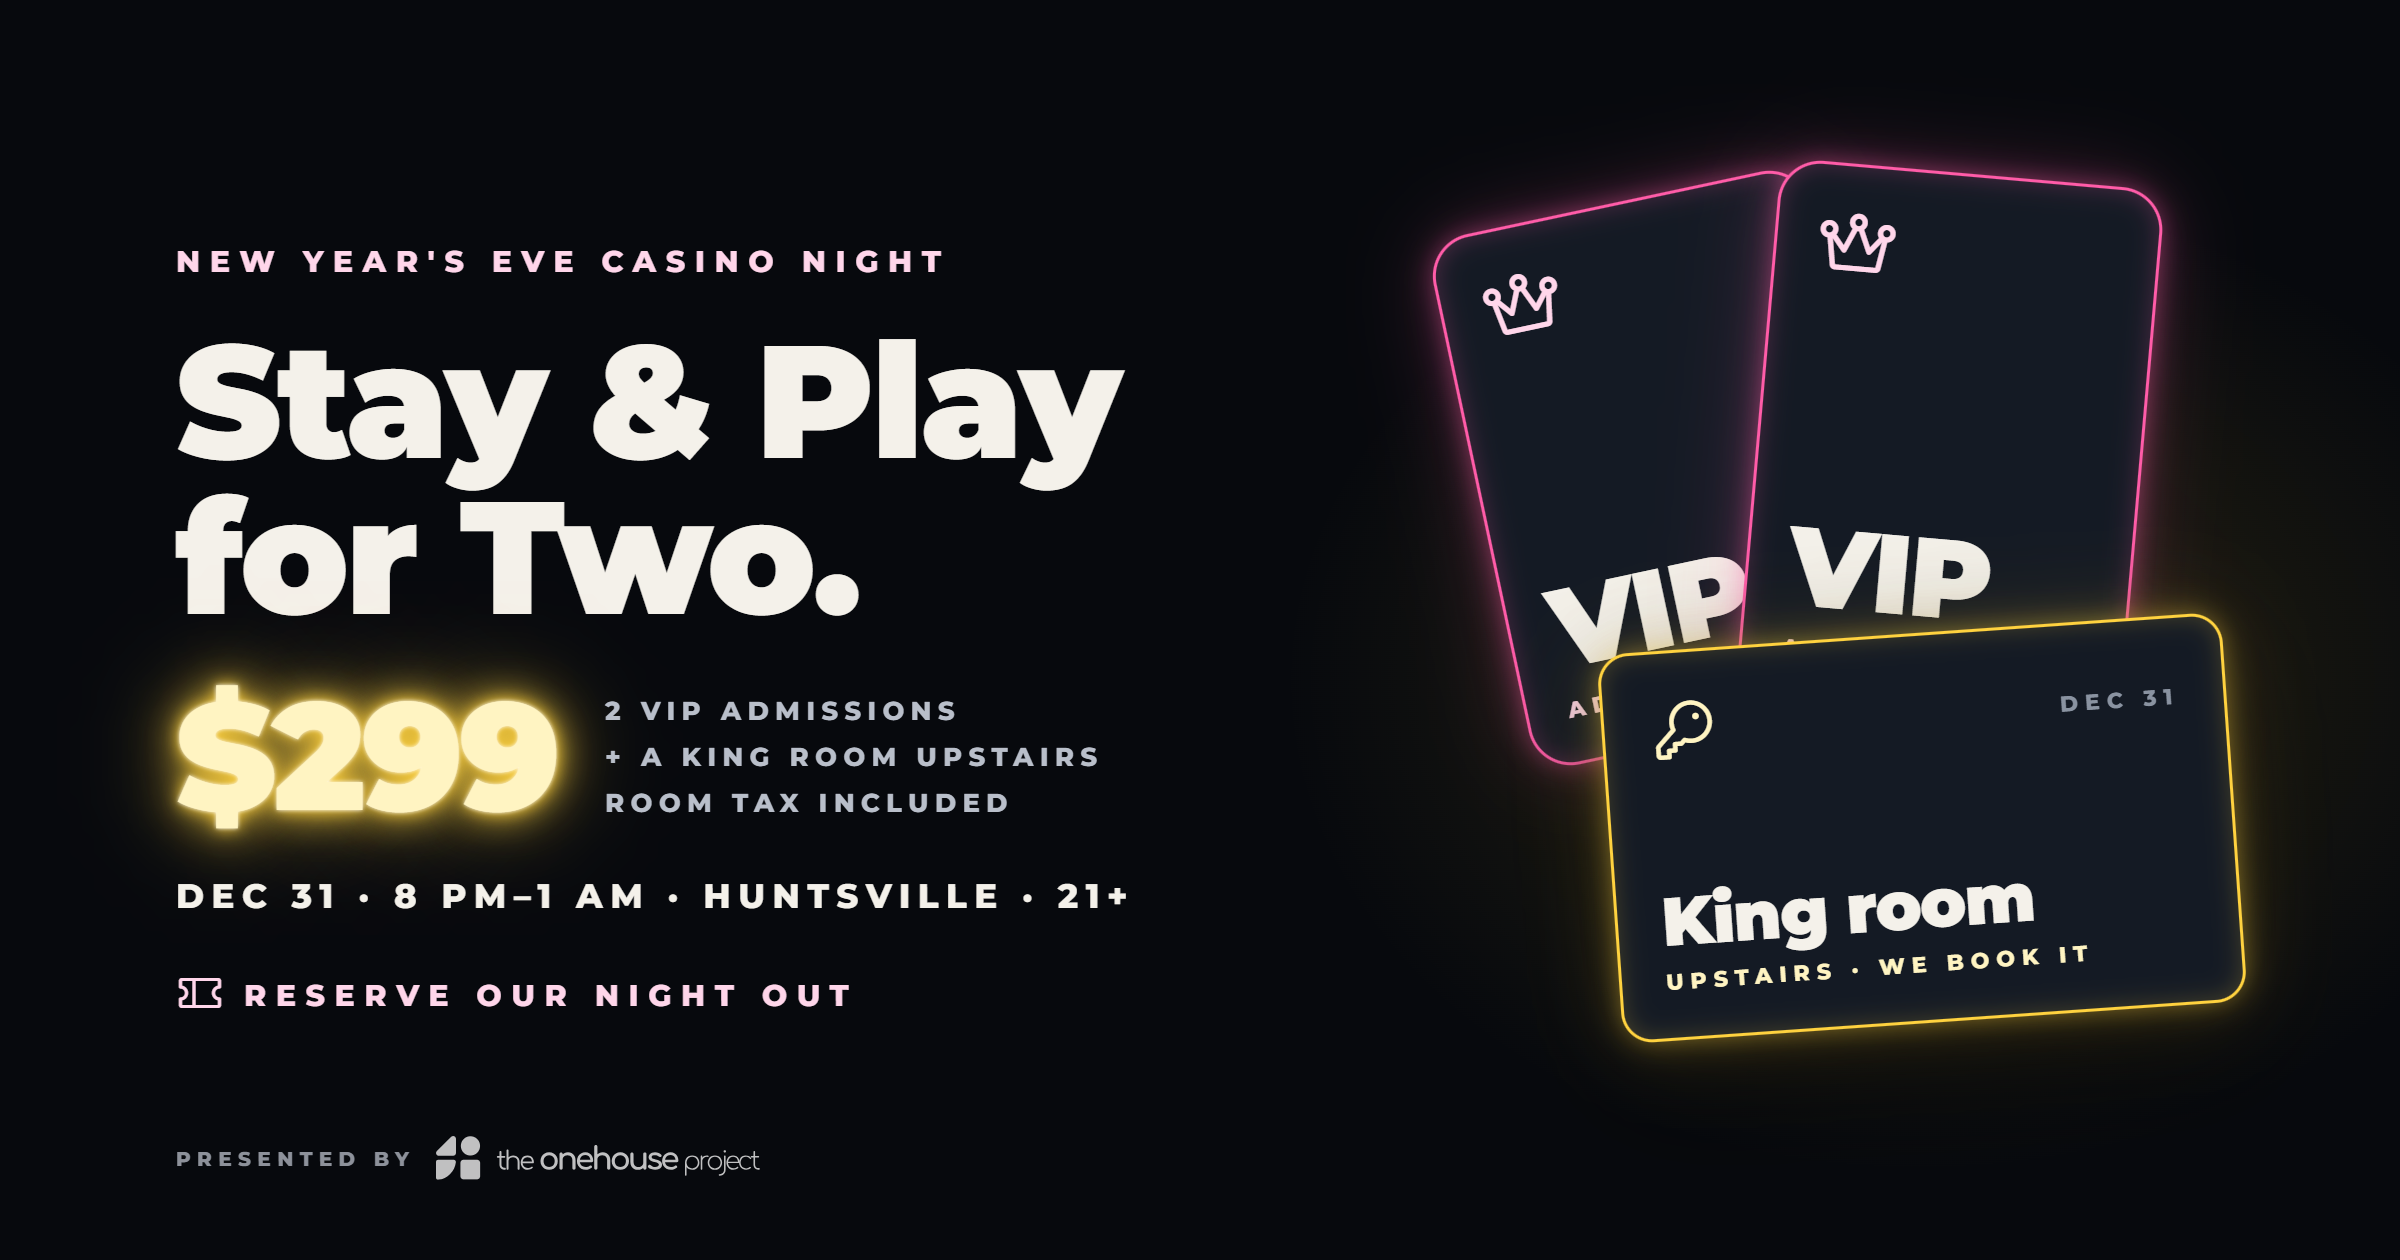
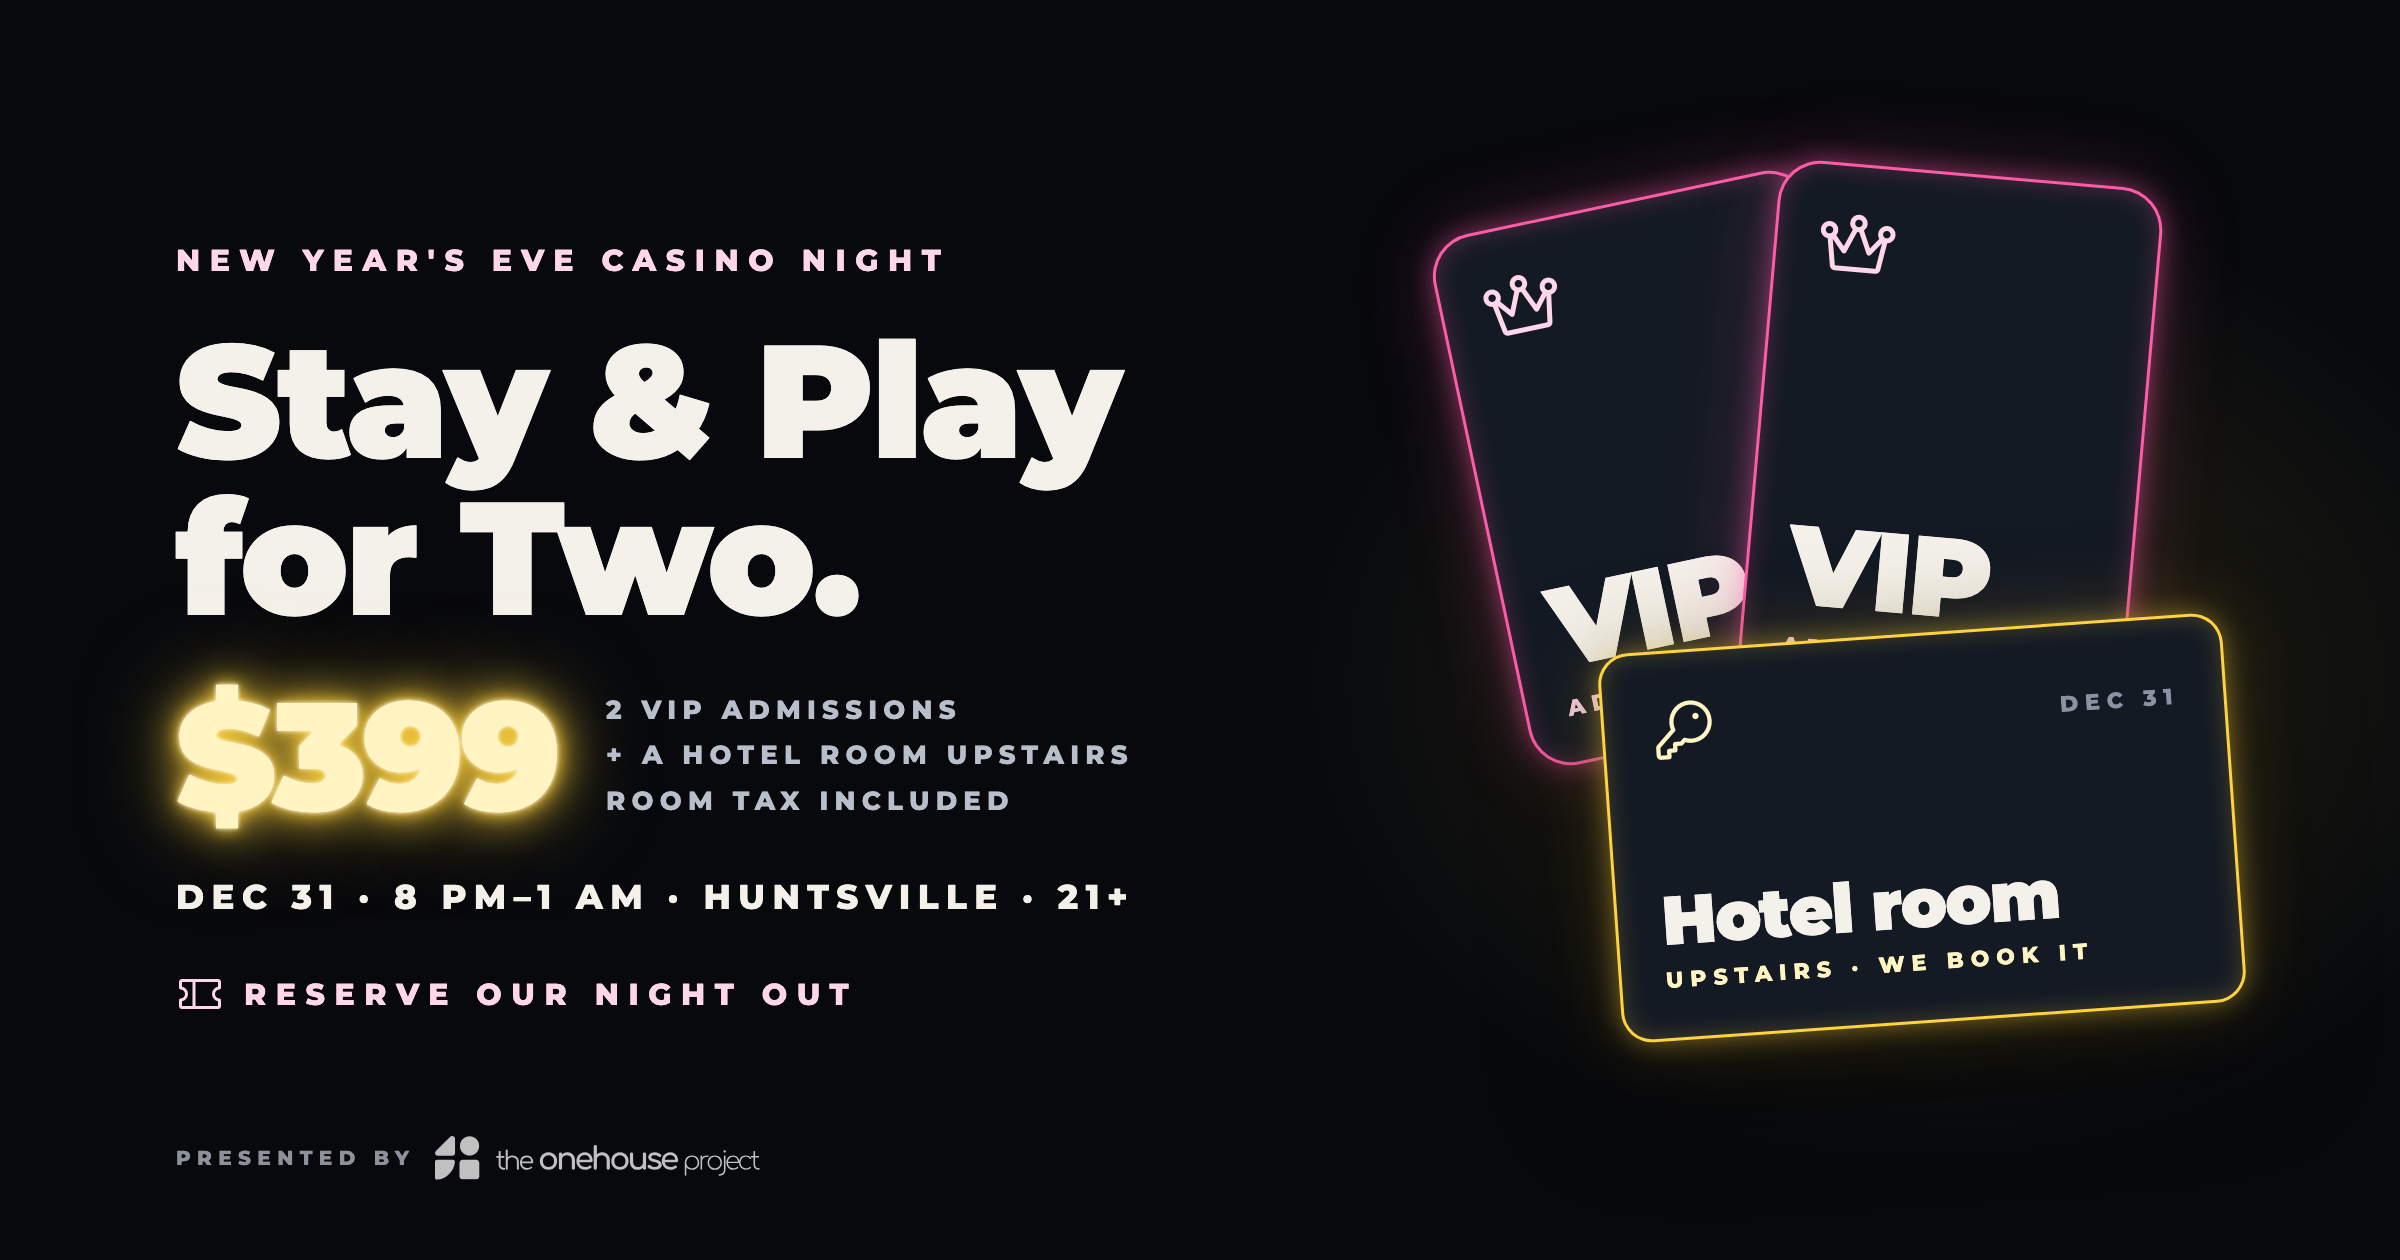
Correct the NYE Event Page to the owner's facts
The page advertised a $299 package with a king room and unlimited food
and drinks, and called the cause a shelter. The owner's facts are $399,
a hotel room with no bed type, 4 drink tickets per VIP admission, and a
36-bed workforce housing facility in southwest Huntsville.

- Hold the Stay & Play price once in event.ts and read it in the hero,
  the offer section and the ticket card
- Replace "king room" with "a hotel room" in the hero, the perk lists
  and the questions
- Replace "Unlimited food & drinks" with unlimited food plus drink
  tickets (8 for the package, 4 per VIP admission)
- Describe the cause as the 36-bed workforce housing facility
- Rebuild the share image with $399 and "Hotel room", same design

diff --git a/app/(nye)/_components/Sections.tsx b/app/(nye)/_components/Sections.tsx
@@ -1,7 +1,7 @@
 import Image from "next/image";
 import glyph from "../_assets/symbol-neon-outline.svg";
 import ohpLogo from "../_assets/ohp-logo-white.svg";
-import { EVENT_NAME } from "../event";
+import { EVENT_NAME, STAY_AND_PLAY_PRICE } from "../event";
 import { TicketLink } from "./givebutter";
 import s from "./Sections.module.css";
 
@@ -76,7 +76,7 @@ export function StayAndPlay() {
       <div className={`${s.inner} ${s.two}`}>
         <div className={s.column}>
           <i className={`ph ph-champagne tone-gold ${s.icon}`} aria-hidden="true" />
-          <h2 className={`display-m ${s.h2}`}>Stay &amp; Play for Two: $299</h2>
+          <h2 className={`display-m ${s.h2}`}>Stay &amp; Play for Two: {STAY_AND_PLAY_PRICE}</h2>
           <p className={`lead ${s.lead}`}>
             <strong>{"The easiest New Year's Eve plan in Huntsville."}</strong> Food, drinks, the
             party and the hotel, all in one checkout.
@@ -91,7 +91,13 @@ export function StayAndPlay() {
             <li>
               <Check />
               <span>
-                <strong>Unlimited food &amp; drinks</strong>
+                <strong>Unlimited food</strong>
+              </span>
+            </li>
+            <li>
+              <Check />
+              <span>
+                <strong>8 drink tickets</strong>, 4 each
               </span>
             </li>
             <li>
@@ -109,7 +115,7 @@ export function StayAndPlay() {
             <li>
               <Check />
               <span>
-                <strong>One king room</strong> at Hilton Garden Inn, room tax included. We book it.
+                <strong>A hotel room</strong> at Hilton Garden Inn, room tax included. We book it.
                 You just check in.
               </span>
             </li>
@@ -117,7 +123,7 @@ export function StayAndPlay() {
         </div>
         <div className={`${s.card} ${s.offerCard} tone-gold`}>
           <div className={s.offerPrice}>
-            <span className={`display-xl ${s.bigPrice}`}>$299</span>
+            <span className={`display-xl ${s.bigPrice}`}>{STAY_AND_PLAY_PRICE}</span>
             <span className="eyebrow">Total for two adults</span>
           </div>
           <hr className={s.rule} />
@@ -159,7 +165,7 @@ const WAITING = [
     icon: "fork-knife",
     tone: "green",
     title: "food & drinks",
-    text: "Unlimited for VIP guests. General admission guests have a cash bar, with food available for purchase.",
+    text: "VIP guests get unlimited food and 4 drink tickets each. General admission guests have a cash bar, with food available for purchase.",
   },
   {
     icon: "champagne",
@@ -231,7 +237,7 @@ export function Cause() {
         <h2 className={`display-l ${s.h2Large}`}>Every chip builds a home</h2>
         <p className={`lead ${s.lead}`}>
           {
-            "This isn't just a party. One House Project is raising money to build a new shelter for men and women in North Alabama. It will offer more than a bed: people will find both "
+            "This isn't just a party. One House Project is raising money to build a 36-bed workforce housing facility in southwest Huntsville. It will offer more than a bed: people will find both "
           }
           <strong>a job and a path to housing</strong>, so they can get back on their feet and stay
           there.
@@ -241,7 +247,7 @@ export function Cause() {
           <strong>veterans, women, families and seniors.</strong>
         </p>
         <p className={`lead ${s.lead} ${s.strong}`}>
-          Every ticket, every package and every donation brings that shelter closer to opening its
+          Every ticket, every package and every donation brings that housing closer to opening its
           doors.
         </p>
         <p className={s.footnote}>
@@ -270,7 +276,7 @@ const QUESTIONS = [
   ],
   [
     "Is a hotel room included?",
-    "With Stay & Play for Two, yes: one king room, room tax included, booked by us. VIP and GA tickets don't include a room.",
+    "With Stay & Play for Two, yes: one hotel room, room tax included, booked by us. VIP and GA tickets don't include a room.",
   ],
   ["Do we have to be a couple?", "Nope. Stay & Play is for any two adults."],
   [

diff --git a/app/(nye)/_components/Tickets.tsx b/app/(nye)/_components/Tickets.tsx
@@ -1,3 +1,4 @@
+import { STAY_AND_PLAY_PRICE } from "../event";
 import { TicketLink } from "./givebutter";
 import shell from "./Sections.module.css";
 import s from "./Tickets.module.css";
@@ -21,14 +22,17 @@ export function Tickets() {
               <h3 className="tier-name">stay &amp; play for two</h3>
               <span className="badge tone-gold">Launch offer</span>
             </div>
-            <div className="tier-price">$299</div>
+            <div className="tier-price">{STAY_AND_PLAY_PRICE}</div>
             <p className="tier-desc">Total for two adults. Room tax included.</p>
             <ul className="tier-perks">
               <li>
                 <i className="ph ph-check" aria-hidden="true" /> 2 VIP admissions
               </li>
               <li>
-                <i className="ph ph-check" aria-hidden="true" /> Unlimited food &amp; drinks
+                <i className="ph ph-check" aria-hidden="true" /> Unlimited food
+              </li>
+              <li>
+                <i className="ph ph-check" aria-hidden="true" /> 8 drink tickets, 4 each
               </li>
               <li>
                 <i className="ph ph-check" aria-hidden="true" /> Reserved VIP seating
@@ -37,7 +41,7 @@ export function Tickets() {
                 <i className="ph ph-check" aria-hidden="true" /> A bigger stack of casino chips
               </li>
               <li>
-                <i className="ph ph-check" aria-hidden="true" /> One king room upstairs. We book it.
+                <i className="ph ph-check" aria-hidden="true" /> A hotel room upstairs. We book it.
               </li>
             </ul>
             <div className="tier-cta">
@@ -53,8 +57,8 @@ export function Tickets() {
             </div>
             <div className="tier-price">$198</div>
             <p className="tier-desc">
-              Per person. Unlimited food &amp; drinks, reserved VIP seating, a bigger chip stack and
-              the full night: casino tables, DJ, red carpet and the midnight countdown.
+              Per person. Unlimited food, 4 drink tickets, reserved VIP seating, a bigger chip
+              stack and the full night: casino tables, DJ, red carpet and the midnight countdown.
             </p>
             <div className="tier-cta">
               <TicketLink className="btn btn-secondary btn-block">Get VIP tickets</TicketLink>

diff --git a/app/(nye)/_components/Hero.tsx b/app/(nye)/_components/Hero.tsx
@@ -1,7 +1,7 @@
 import Image from "next/image";
 import glyph from "../_assets/symbol-neon-outline.svg";
 import ohpLogo from "../_assets/ohp-logo-white.svg";
-import { EVENT_NAME } from "../event";
+import { EVENT_NAME, STAY_AND_PLAY_PRICE } from "../event";
 import { TicketLink } from "./givebutter";
 import { Vsl } from "./Vsl";
 import s from "./Hero.module.css";
@@ -30,10 +30,10 @@ export function Hero() {
               <i className="ph ph-ticket" aria-hidden="true" /> Reserve our night out
             </TicketLink>
             <p className={s.offer}>
-              <span className={`display-s ${s.price}`}>$299</span>
+              <span className={`display-s ${s.price}`}>{STAY_AND_PLAY_PRICE}</span>
               <span>
                 Stay &amp; Play for Two
-                <br />2 VIP admissions and a king room upstairs
+                <br />2 VIP admissions and a hotel room upstairs
               </span>
             </p>
           </div>

diff --git a/app/(nye)/event.ts b/app/(nye)/event.ts
@@ -2,6 +2,12 @@
 
 export const EVENT_NAME = "New Year's Eve Casino Night";
 
+/**
+ * The price of Stay & Play for Two, as printed. The Givebutter ticket charges
+ * the same amount, and the share image (`nye/opengraph-image.png`) has it drawn in.
+ */
+export const STAY_AND_PLAY_PRICE = "$399";
+
 /** The Givebutter campaign that sells this Event's tickets. */
 export const GIVEBUTTER = {
   accountId: "BWLFFUVs4GTgmfRz",
